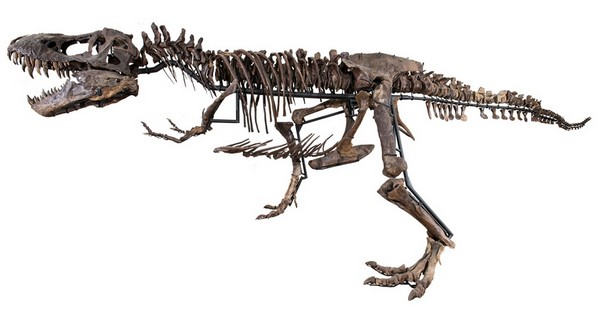
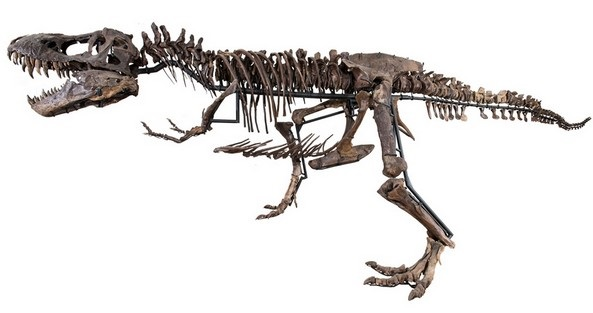
float

Changed region(s): [[0.0304, 0.0575, 1.0, 0.9776], [0.2125, 0.3738, 0.2428, 0.4026]]

diff --git a/homework/verstka/float.html b/homework/verstka/float.html
@@ -5,58 +5,73 @@
     <title>Тег DIV</title>
     <style type="text/css">
         .block1 {
-            width: 100%;
+            width: 1300px;
             height: 40px;
             background: 	#ffffff;
             border: solid 1px black;
-            float: none;}
+            float: left;
+            text-align: center
+        }
         .block2 {
-            width: auto ;
+            width: 649px;
             height: 360px;
-            background: 	#ffffff;
+            background: 	#ccc;
             border: solid 1px black;
-            float: left;}
+            border-right: 0px;
+            float: left;
+            margin: 0;
+            text-align: center;
+        }
+
+
         .block3 {
-            width: 50% - 2px ;
+            width: 650px;
             height: 180px;
-            background: #ffffff;
             border: solid 1px black;
-            float: center; }
+            background: #ccc;
+            text-align: center;
+            float: left;
+        }
         .block4 {
-            width: 80$;
+            width: 24%;
             height: 180px;
             background: #ffffff;
             border: solid 1px black;
-            float: right;  }
+            float: left;
+            text-align: center;
+        }
         .block5 {
-            width: 25% - 2px;
+            width: 24%;
             height: 180px;
             background: #ffffff;
             border: solid 1px black;
-            float: right;  }
+            float: left;
+            text-align: center;
+        }
 
     </style>
 </head>
 <body>
-<div align="center" class="block1">
+<div class="block1">
     <p>"Динозавры"</p>
 </div>
 
-    <div align="center" class="block2">
+    <div class="block2">
         <figure>
-            <img src="t-rex-skeleton.jpg" title="скелет динозавра" width="600" height="313">
+            <img src="t-rex-skeleton.jpg" title="скелет динозавра" width="593" height="313">
             <figcaption>Скелет динозавра T-Rex</figcaption>
         </figure>
     </div>
-<div align="center" class="block3">
+<div class="parent">
+<div class="block3">
     <p>Динозавры</p>
 </div>
 
-<div align="center" class="block4">
+<div class="block4">
     <p>Вес 300</p>
 </div>
 
-<div align="center" class="block5">
+<div class="block5">
     <p>Рост 1000</p>
 </div>
 

diff --git a/homework/verstka/float2.html b/homework/verstka/float2.html
@@ -1,0 +1,53 @@
+<!DOCTYPE HTML>
+<html>
+<head>
+    <meta charset="utf-8">
+    <title>Тег DIV</title>
+    <style type="text/css">
+        .block1 {
+            width: 100%;
+            height: 40px;
+            background: 	#ffffff;
+            border: solid 1px black;
+            float: left;
+            text-align: center
+        }
+        .block2 {
+            width: 50%;
+            height: 360px;
+            background: 	#ccc;
+            border: solid 1px black;
+            border-right: 0px;
+            float: left;
+            margin: 0;
+            text-align: center;
+        }
+
+        .flex-conteiner{display: flex
+;}
+        .flex-block{ flex-grow: 1;}
+
+    </style>
+</head>
+<body>
+<div class="block1">
+    <p>"Динозавры"</p>
+</div>
+
+<div class="block2">
+    <figure>
+        <img src="t-rex-skeleton.jpg" title="скелет динозавра" width="593" height="313">
+        <figcaption>Скелет динозавра T-Rex</figcaption>
+    </figure>
+</div>
+<div class="flex-conteiner">
+
+ <div class="flex-block">Динозавры</div>
+
+<div class="flex-block">Вес 300</div>
+
+<div class="flex-block">Рост 100</div>
+</div>
+
+</body>
+</html>

diff --git a/homework/verstka/float3.html b/homework/verstka/float3.html
@@ -1,0 +1,49 @@
+<!DOCTYPE HTML>
+<html>
+<head>
+    <meta charset="utf-8">
+    <title>Тег DIV</title>
+    <style type="text/css">
+       header {width: 100%;
+           height: 40px;
+           background: 	#ffffff;
+       border: solid 1px black;
+       }
+        .centre{
+            ;
+        }
+       .left {width: 50%;
+           height: 300px;
+           background: 	#cccccc;
+           border: solid 1px black;
+           float: left;
+       }
+       .right {width: calc (100% - 50%)
+           height: 300px;
+           background: 	#cccccc;
+           border: solid 1px black;
+           text-align: center;
+           float: right;
+       }
+
+
+    </style>
+</head>
+<body>
+<header style="text-align: center">Динозавры</header>
+
+
+       <div class=:"left">
+        <figure>
+            <img src="t-rex-skeleton.jpg" title="скелет динозавра" width="600" height="313">
+            <figcaption>Скелет динозавра T-Rex</figcaption>
+        </figure>
+    </div>
+<div class=:"right">
+
+
+
+</div>
+
+
+
